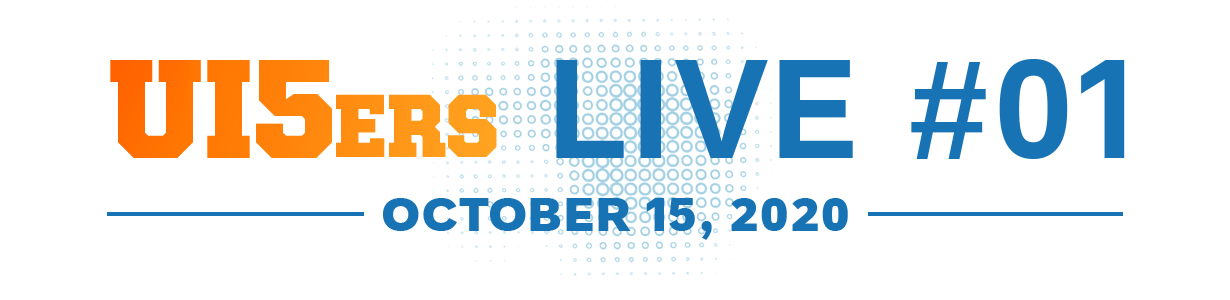
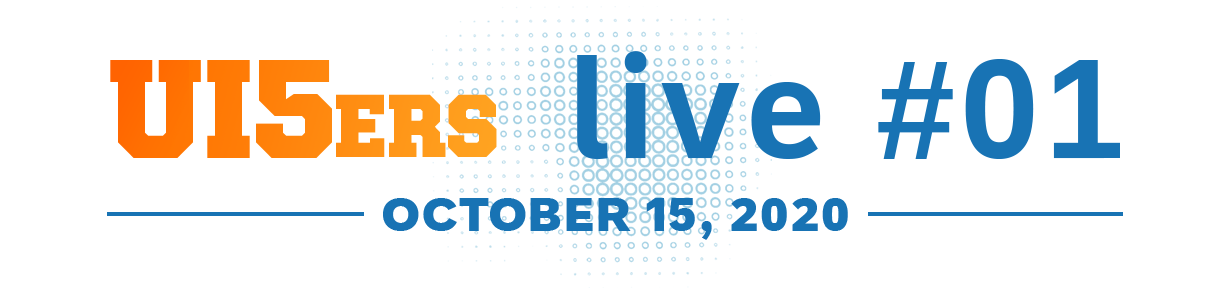
Change LIVE to live

Changed region(s): [[0.4325, 0.15, 0.9268, 0.54]]

diff --git a/src/pages/community.html b/src/pages/community.html
@@ -111,7 +111,7 @@
 						<div class="list mod_events">
 							<div class="list__item">
 								<div class="tile type_event">
-									<div class="tile__title"><a href="https://sap-se.zoom.com/j/94833714827" class="link" rel="noopener" target="_blank">UI5ers LIVE #01</a></div>
+									<div class="tile__title"><a href="https://sap-se.zoom.com/j/94833714827" class="link" rel="noopener" target="_blank">UI5ers live #01</a></div>
 									<div class="tile__text">October 15, 2020 / 15:15-15:45 CEST / Webcast (Online) via <a href="https://zoom.us/" target="_blank" class="link" rel="noopener">Zoom.us</a></div>
 									<div class="tile__description">30-minute interactive webcast on UI5 to inform about latest features, exchange views and ideas, and discuss current topics.</div>
 								</div>
